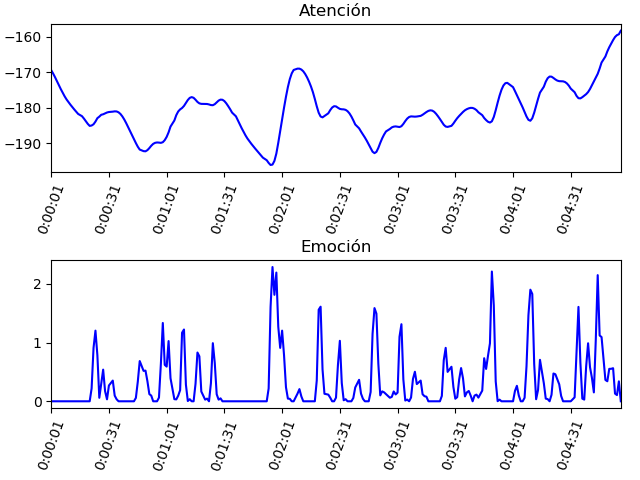
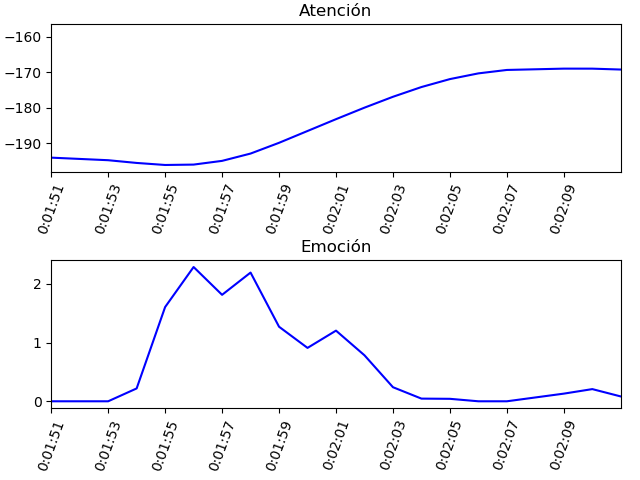
La grafica es relativa al tiempo de entrada y salida

diff --git a/Graficas.py b/Graficas.py
@@ -24,9 +24,10 @@ def grafica():
     # tiempo tiene todos los valores del tiempo del csv
 
     # Elegir cada cuanto quieres las etiquetas en la grafica
-
+    if vb.s_salida==0:
+        vb.s_salida=len(tiempo)
     # for para guardar solo los tiempos que interesan
-    for i in range(0, len(tiempo), vb.etiquetas):
+    for i in range(vb.s_entrada, vb.s_salida, vb.etiquetas):
         x.append(tiempo[i])
 
     # Cambia el color del fondo de la figura
@@ -38,7 +39,7 @@ def grafica():
     gra1.plot(tiempo, y, color=vb.color_linea, linewidth=vb.grosor)
     gra1.set_facecolor(vb.background_gr)
     # Establece donde empieza y donde acaba el eje x, con esa formula ajusta la grafica
-    gra1.set_xlim(0, tiempo[len(tiempo) - 1])
+    gra1.set_xlim(vb.s_entrada, vb.s_salida)
     gra1.set_xticks(x)
     gra1.set_title(vb.titulo1, family=vb.fuente_tit, color=vb.titulo_gr,size=vb.tamanno_tit)
     gra1.spines['bottom'].set_color(vb.contorno)
@@ -51,7 +52,7 @@ def grafica():
     gra2 = fig.add_subplot(2, 1, 2)
     gra2.plot(tiempo, z, color=vb.color_linea, linewidth=vb.grosor)
     gra2.set_facecolor(vb.background_gr)
-    gra2.set_xlim(0, tiempo[len(tiempo) - 1])
+    gra2.set_xlim(vb.s_entrada, vb.s_salida)
     gra2.set_xticks(x)
     gra2.set_title(vb.titulo2, family=vb.fuente_tit,color=vb.titulo_gr,size=vb.tamanno_tit)
     gra2.spines['bottom'].set_color(vb.contorno)
